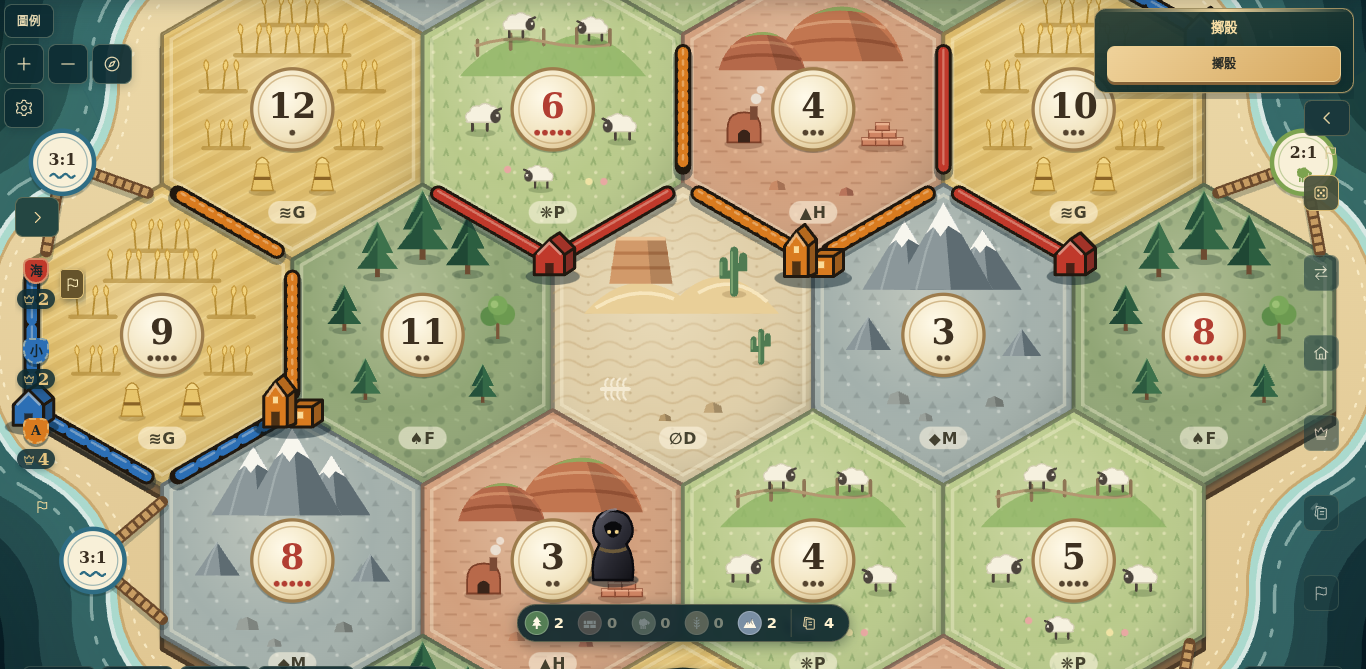
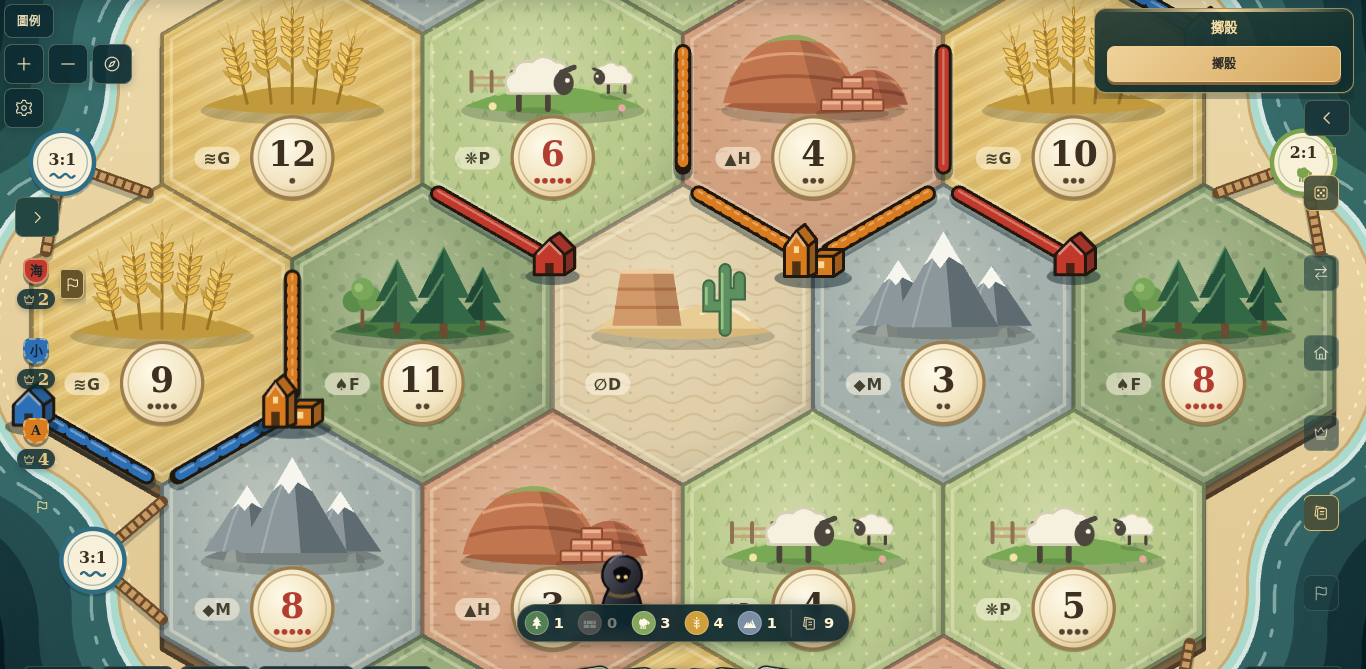
♻ refactor(board): return SVG tiles to a single refined emblem
Replace the scattered terrain scenes with one centred emblem per tile above
the number token, keeping the original icon language while redrawing each
motif with light and an earthen plate.

diff --git a/packages/web/src/components/SvgBoardArt.tsx b/packages/web/src/components/SvgBoardArt.tsx
@@ -177,136 +177,129 @@ function Sheep({ x, y, s = 1, flip = false }: { x: number; y: number; s?: number
   </g>;
 }
 
-function WheatRow({ x, y, length, s = 1 }: { x: number; y: number; length: number; s?: number }) {
-  const ears = Math.max(2, Math.round(length / 9));
-  return <g transform={`translate(${x} ${y}) scale(${s})`}>
-    <path d={`M${-length / 2} 2H${length / 2}`} stroke="#a77f2c" strokeWidth="3" strokeLinecap="round" opacity=".55" />
-    {Array.from({ length: ears }, (_, index) => {
-      const ex = -length / 2 + (index + 0.5) * length / ears;
-      const lean = index % 2 ? 2 : -1.5;
-      return <g key={index} transform={`translate(${ex} 0) rotate(${lean * 3})`}>
-        <path d="M0 1v-13" stroke="#b58d34" strokeWidth="1.2" />
-        <path d="M0-19q3.2 3 0 8-3.2-5 0-8Z" fill="#f2d27a" stroke="#c69a3c" strokeWidth=".8" />
-      </g>;
-    })}
-  </g>;
-}
-
-function Sheaf({ x, y, s = 1 }: { x: number; y: number; s?: number }) {
-  return <g transform={`translate(${x} ${y}) scale(${s})`}>
-    <ellipse cy="1" rx="10" ry="3" fill="#5a4214" opacity=".25" />
-    <path d="M-8 0l4-20h8l4 20Z" fill="#e7c46a" stroke="#b48a33" strokeWidth="1" />
-    <path d="M-5-20q5-9 10 0" fill="#f3d888" stroke="#b48a33" strokeWidth="1" />
-    <path d="M-6-9h12" stroke="#8a6326" strokeWidth="2.4" />
-  </g>;
+/** A soft earthen plate that every emblem stands on. */
+function Ground({ fill, light, w = 118 }: { fill: string; light: string; w?: number }) {
+  const half = w / 2;
+  return <>
+    <ellipse cy="5" rx={half + 2} ry="9" fill="#0d1d16" opacity=".2" />
+    <path d={`M${-half} 2q${half} -26 ${w} 0q${-half} 10 ${-w} 0Z`} fill={fill} />
+    <path d={`M${-half * 0.62} -6q${half * 0.62} -14 ${half * 1.24} 0`} fill="none" stroke={light} strokeWidth="2.4" strokeLinecap="round" opacity=".75" />
+  </>;
 }
 
 function Cactus({ x, y, s = 1 }: { x: number; y: number; s?: number }) {
   return <g transform={`translate(${x} ${y}) scale(${s})`} strokeLinecap="round" fill="none">
-    <ellipse cy="1" rx="8" ry="2.5" fill="#7a5f33" opacity=".25" />
-    <path d="M0 0v-28M0-12h-7v-9M0-17h6v-7" stroke="#4f7b52" strokeWidth="5.5" />
-    <path d="M-1.4 0v-27M-8.4-12v-8" stroke="#86ad78" strokeWidth="1.5" opacity=".8" />
+    <path d="M0 0v-30M0-12h-8v-10M0-18h7v-8" stroke="#3f6a46" strokeWidth="6.5" />
+    <path d="M0 0v-30M0-12h-8v-10M0-18h7v-8" stroke="#5f9160" strokeWidth="4.5" />
+    <path d="M-1.4-1v-27M-9.2-13v-8" stroke="#a6cf8f" strokeWidth="1.3" opacity=".8" />
   </g>;
 }
 
 function Butte({ x, y, w, h }: { x: number; y: number; w: number; h: number }) {
   const half = w / 2;
   return <g transform={`translate(${x} ${y})`}>
-    <path d={`M${-half} 0L${-half * 0.78} ${-h}H${half * 0.78}L${half} 0Z`} fill="#d29a6a" />
-    <path d={`M${-half * 0.93} ${-h * 0.35}H${half * 0.93}M${-half * 0.86} ${-h * 0.68}H${half * 0.86}`} stroke="#b97a4c" strokeWidth="2.2" />
-    <path d={`M${half * 0.2} ${-h}H${half * 0.78}L${half} 0H${half * 0.32}Z`} fill="#000" opacity=".15" />
-    <path d={`M${-half * 0.78} ${-h}H${half * 0.78}`} stroke="#ecc596" strokeWidth="2.4" />
+    <path d={`M${-half} 0L${-half * 0.76} ${-h}H${half * 0.76}L${half} 0Z`} fill="#d29a6a" />
+    <path d={`M${-half * 0.92} ${-h * 0.34}H${half * 0.92}M${-half * 0.84} ${-h * 0.68}H${half * 0.84}`} stroke="#b97a4c" strokeWidth="2.2" />
+    <path d={`M${half * 0.18} ${-h}H${half * 0.76}L${half} 0H${half * 0.3}Z`} fill="#4a2a14" opacity=".18" />
+    <path d={`M${-half * 0.76} ${-h}H${half * 0.76}`} stroke="#f0cd9f" strokeWidth="2.6" strokeLinecap="round" />
   </g>;
 }
 
-function Kiln({ x, y }: { x: number; y: number }) {
-  return <g transform={`translate(${x} ${y})`}>
-    <ellipse cy="1" rx="13" ry="3.5" fill="#4a2414" opacity=".25" />
-    <path d="M-11 0v-9q0-11 11-11t11 11V0Z" fill="#b8694a" stroke="#7c3f28" strokeWidth="1.2" />
-    <path d="M-4 0v-6q4-5 8 0V0Z" fill="#3a2419" />
-    <path d="M4-24h5v9h-5Z" fill="#7a4a35" />
-    <circle cx="8" cy="-29" r="3.5" fill="#eee8dd" opacity=".85" /><circle cx="11" cy="-35" r="2.6" fill="#f5f1e9" opacity=".7" />
-  </g>;
-}
-
-function BrickStack({ x, y }: { x: number; y: number }) {
+function BrickStack({ x, y, s = 1 }: { x: number; y: number; s?: number }) {
   const brick = (bx: number, by: number, key: string) => <g key={key}>
-    <rect x={bx} y={by} width="9" height="5" fill="#cf8463" stroke="#8c4a32" strokeWidth=".9" />
-    <rect x={bx} y={by} width="9" height="1.6" fill="#eab08e" />
+    <rect x={bx} y={by} width="12" height="6.5" rx=".8" fill="#d18665" stroke="#86452e" strokeWidth="1" />
+    <rect x={bx + 1} y={by + 1} width="10" height="1.8" fill="#f0b996" opacity=".9" />
   </g>;
-  return <g transform={`translate(${x} ${y})`}>
-    <ellipse cx="0" cy="1" rx="16" ry="3.5" fill="#4a2414" opacity=".25" />
-    {[0, 1, 2].flatMap((row) => Array.from({ length: 3 - row }, (_, col) => brick(-13.5 + row * 4.5 + col * 9, -5 - row * 5, `${row}-${col}`)))}
+  return <g transform={`translate(${x} ${y}) scale(${s})`}>
+    <ellipse cy="1.5" rx="21" ry="4" fill="#4a2414" opacity=".25" />
+    {[0, 1, 2].flatMap((row) => Array.from({ length: 3 - row }, (_, col) => brick(-18 + row * 6 + col * 12, -6.5 - row * 6.5, `${row}-${col}`)))}
   </g>;
 }
 
-function Bones({ x, y }: { x: number; y: number }) {
-  return <g transform={`translate(${x} ${y})`} stroke="#f4ead2" strokeLinecap="round" fill="none">
-    <path d="M-10 0h18" strokeWidth="2.6" />
-    {[-7, -3, 1, 5].map((rx) => <path key={rx} d={`M${rx} 0q-2-5 1-7M${rx} 0q-2 5 1 7`} strokeWidth="1.4" />)}
+function WheatStalk({ x, h, lean }: { x: number; h: number; lean: number }) {
+  const kernels = [0, 1, 2, 3];
+  return <g transform={`translate(${x} 0) rotate(${lean})`}>
+    <path d={`M0 0V${-h}`} stroke="#9c7426" strokeWidth="2" strokeLinecap="round" />
+    <path d={`M0 ${-h * 0.35}q-9-4-11-12q8 2 11 9`} fill="#c9a447" />
+    {kernels.map((k) => {
+      const ky = -h + 3 + k * 6.5;
+      return <g key={k}>
+        <path d={`M0 ${ky + 3}q-7-1-7.5-7.5q6 1 7.5 6Z`} fill="#f1cf6e" stroke="#b78a2e" strokeWidth=".8" />
+        <path d={`M0 ${ky + 3}q7-1 7.5-7.5q-6 1-7.5 6Z`} fill="#e4bb55" stroke="#b78a2e" strokeWidth=".8" />
+      </g>;
+    })}
+    <path d={`M0 ${-h - 1}q-1.6-4 0-8 1.6 4 0 8Z`} fill="#f6da86" stroke="#b78a2e" strokeWidth=".8" />
+    <path d={`M-2 ${-h - 4}l-5-10M2 ${-h - 4}l5-10M0 ${-h - 8}v-9`} stroke="#d7b257" strokeWidth=".9" />
+  </g>;
+}
+
+function Fence({ from, to, y }: { from: number; to: number; y: number }) {
+  const posts = Math.round((to - from) / 14);
+  return <g>
+    <path d={`M${from} ${y - 9}H${to}M${from} ${y - 4}H${to}`} stroke="#c4a679" strokeWidth="2" />
+    {Array.from({ length: posts + 1 }, (_, index) => <path key={index} d={`M${from + index * (to - from) / posts} ${y}v-13`} stroke="#8e7254" strokeWidth="2.6" strokeLinecap="round" />)}
   </g>;
 }
 
 /**
- * Each terrain's scene sits around the central number token: tall features stay
- * in the back half, small details flank the token, lanes and corners stay clear.
+ * One centred emblem per terrain, like a printed tile icon: a single motif on
+ * an earthen plate, sitting above the number token.
  */
-export function TerrainScene({ terrain, x, y }: { terrain: string; x: number; y: number }) {
+export function TerrainEmblem({ terrain, x, y }: { terrain: string; x: number; y: number }) {
   let art: ReactNode;
   switch (terrain) {
     case 'forest':
       art = <>
-        <Pine x={-30} y={-40} s={.8} tone={1} /><Pine x={30} y={-42} s={.86} tone={2} /><Pine x={0} y={-52} s={1} />
-        <Pine x={-52} y={-4} s={.66} tone={2} /><Broadleaf x={50} y={2} s={.72} />
-        <Pine x={-38} y={42} s={.6} tone={1} /><Pine x={40} y={44} s={.56} />
+        <Ground fill="#4c7a45" light="#78a565" />
+        <Broadleaf x={-40} y={-2} s={.82} /><Pine x={40} y={-1} s={.92} tone={2} />
+        <Pine x={-17} y={1} s={1.08} tone={1} /><Pine x={14} y={3} s={1.32} />
       </>;
       break;
     case 'mountains':
     case 'gold':
       art = <>
-        <Peak x={-26} y={-30} w={56} h={46} /><Peak x={26} y={-30} w={52} h={40} /><Peak x={0} y={-30} w={66} h={58} />
-        <Peak x={-50} y={10} w={30} h={22} snow={false} /><Peak x={52} y={14} w={26} h={18} snow={false} />
-        <Rock x={-30} y={44} s={1.1} /><Rock x={34} y={46} s={.9} fill="#8a918b" /><Rock x={-12} y={56} s={.7} />
-        {terrain === 'gold' && <><Rock x={22} y={36} s={1.2} fill="#d9b44d" /><Rock x={-46} y={30} s={.9} fill="#e7c868" /></>}
+        <Ground fill={terrain === 'gold' ? '#8c7d4e' : '#76817f'} light={terrain === 'gold' ? '#c9b46a' : '#a4aca6'} />
+        <Peak x={-30} y={-2} w={58} h={44} /><Peak x={32} y={-2} w={54} h={40} /><Peak x={0} y={-1} w={74} h={64} />
+        <Rock x={-38} y={3} s={1.1} /><Rock x={42} y={4} s={.9} fill="#8a918b" />
+        {terrain === 'gold' && <><Rock x={14} y={4} s={1.3} fill="#e0b84a" /><Rock x={-12} y={5} s={1} fill="#f0d070" /></>}
       </>;
       break;
     case 'hills':
       art = <>
-        <Mound x={18} y={-32} w={84} h={40} colors={['#c27650', '#a85d3c', '#d79a72']} />
-        <Mound x={-34} y={-26} w={58} h={28} colors={['#b5694a', '#9a5236', '#d08a64']} />
-        <Kiln x={-46} y={22} /><BrickStack x={46} y={24} />
-        <Rock x={-24} y={52} s={.8} fill="#c98a66" /><Rock x={22} y={56} s={.7} fill="#b9745a" />
+        <Ground fill="#a75e3c" light="#d99a70" />
+        <Mound x={-14} y={0} w={92} h={50} colors={['#c27650', '#a35a3a', '#de9f76']} />
+        <Mound x={38} y={1} w={50} h={26} colors={['#b5694a', '#96503a', '#d08a64']} grass={false} />
+        <BrickStack x={26} y={5} s={1.15} />
       </>;
       break;
     case 'fields':
       art = <>
-        <WheatRow x={0} y={-58} length={44} /><WheatRow x={0} y={-38} length={76} /><WheatRow x={-46} y={-14} length={30} />
-        <WheatRow x={46} y={-14} length={30} /><WheatRow x={-44} y={24} length={34} s={.9} /><WheatRow x={44} y={24} length={34} s={.9} />
-        <Sheaf x={-20} y={54} s={.9} /><Sheaf x={20} y={54} s={.9} />
+        <Ground fill="#c29a3e" light="#ecd07a" />
+        <WheatStalk x={-30} h={38} lean={-14} /><WheatStalk x={30} h={38} lean={14} />
+        <WheatStalk x={-14} h={48} lean={-6} /><WheatStalk x={14} h={48} lean={6} /><WheatStalk x={0} h={56} lean={0} />
       </>;
       break;
     case 'pasture':
       art = <>
-        <path d="M-62-22q30-34 62-22 30-18 62 22Z" fill="#8fb565" opacity=".8" />
-        <path d="M-50-36v-10m22 6v-10m22 7v-10m22 9v-10m22 11v-10" stroke="#8e7655" strokeWidth="2.4" strokeLinecap="round" />
-        <path d="M-52-42q24-8 46-3t44 2" stroke="#b39871" strokeWidth="2" fill="none" />
-        <Sheep x={-24} y={-48} s={.82} /><Sheep x={28} y={-46} s={.78} flip />
-        <Sheep x={-48} y={14} s={.9} /><Sheep x={46} y={20} s={.86} flip /><Sheep x={-8} y={52} s={.74} flip />
-        {[-30, 24, 34].map((fx, index) => <circle key={fx} cx={fx} cy={index ? 48 : 40} r={2.4} fill={index % 2 ? '#f0e3a4' : '#e8a8a2'} />)}
+        <Ground fill="#7aa956" light="#b4d283" />
+        <Fence from={-54} to={-14} y={-8} />
+        <Sheep x={42} y={-7} s={1} flip />
+        <Sheep x={-12} y={4} s={1.75} />
+        <circle cx={-40} cy={2} r={2.6} fill="#f3e6a8" /><circle cx={46} cy={3} r={2.4} fill="#eaaaa4" />
       </>;
       break;
     case 'desert':
       art = <>
-        <path d="M-66-14q30-34 64-12 30-30 66 12Z" fill="#e9cf98" />
-        <path d="M-58-18q26-16 52-6m16-4q24-14 46 6" stroke="#f7e6bd" strokeWidth="2.4" fill="none" />
-        <Butte x={-28} y={-34} w={42} h={30} /><Cactus x={34} y={-28} s={1} /><Cactus x={52} y={18} s={.72} />
-        <Bones x={-44} y={36} /><Rock x={20} y={50} s={.9} fill="#c4a87a" /><Rock x={-12} y={56} s={.6} fill="#b89b6c" />
+        <Ground fill="#d8b77a" light="#f3e0b2" />
+        <path d="M-56 0q22-24 50-8 20-18 58 8Z" fill="#e8cd95" />
+        <path d="M-44-4q18-12 34-4m22-2q16-10 32 4" stroke="#f8e8c2" strokeWidth="2.2" fill="none" strokeLinecap="round" />
+        <Butte x={-24} y={-2} w={46} h={36} /><Cactus x={28} y={1} s={1.35} />
       </>;
       break;
     default:
       art = <path d="M-40-10q10-8 20 0t20 0 20 0 20 0M-40 10q10-8 20 0t20 0 20 0 20 0" fill="none" stroke="#bfe6df" strokeWidth="2.5" />;
   }
-  return <g transform={`translate(${x} ${y})`} className="board__scene" aria-hidden="true" pointerEvents="none">{art}</g>;
+  return <g transform={`translate(${x} ${y})`} className="board__terrain-art" aria-hidden="true" pointerEvents="none">{art}</g>;
 }
 
 export function NumberToken({ x, y, number, pips, ids }: { x: number; y: number; number: number; pips: number; ids: BoardArtIds }) {

diff --git a/packages/web/src/components/SvgBoard.tsx b/packages/web/src/components/SvgBoard.tsx
@@ -7,7 +7,7 @@ import type { TableState } from '../state/table.ts';
 import { useT } from '../i18n/context.tsx';
 import { pipsFor, playerColorHex, resourceLetter, seatDash, terrainFill, terrainLetter, terrainSymbol } from '../board/terrain.ts';
 import { confirmedPlacement } from '../board/effects.ts';
-import { BoardArtDefs, BoardBuilding, boardArtIds, HarborMarker, IslandShore, NumberToken, RobberPiece, shade, TerrainScene, TileFinish } from './SvgBoardArt.tsx';
+import { BoardArtDefs, BoardBuilding, boardArtIds, HarborMarker, IslandShore, NumberToken, RobberPiece, shade, TerrainEmblem, TileFinish } from './SvgBoardArt.tsx';
 
 interface SvgBoardProps extends Omit<ComponentProps<'svg'>, 'viewBox' | 'points'> {
   svgRef: Ref<SVGSVGElement>;
@@ -23,9 +23,12 @@ interface SvgBoardProps extends Omit<ComponentProps<'svg'>, 'viewBox' | 'points'
   nameResolver: (id: string) => string;
 }
 
-/** 有數字牌時強盜站在數字牌旁，不遮住點數。 */
+/** 圖示在上、數字牌在下，與實體版面相同。 */
+const TOKEN_DROP = 32;
+
+/** 有數字牌時強盜站在數字牌右側，不遮住點數；地形標記在左側。 */
 function robberSpot(hex: { cx: number; cy: number }, numbered: boolean): Point {
-  return numbered ? { x: hex.cx + 40, y: hex.cy - 2 } : { x: hex.cx, y: hex.cy + 4 };
+  return numbered ? { x: hex.cx + 46, y: hex.cy + TOKEN_DROP - 4 } : { x: hex.cx, y: hex.cy + TOKEN_DROP - 6 };
 }
 
 /** 道路兩端內縮，讓路口的村莊與城市保持完整可見。 */
@@ -63,16 +66,16 @@ export function SvgBoard({ svgRef, geometry, view, active, selection, selfId, in
                   strokeLinejoin="round"
                 />
                 <TileFinish terrain={terrain} points={hex.points} cx={hex.cx} cy={hex.cy} ids={ids} />
-                <TerrainScene terrain={terrain} x={hex.cx} y={hex.cy} />
+                <TerrainEmblem terrain={terrain} x={hex.cx} y={hex.cy - 4} />
                 <g aria-hidden="true" pointerEvents="none">
-                  <rect x={hex.cx - 16} y={hex.cy + 61} width={32} height={15} rx={7.5} fill="#fff8e4" opacity=".55" />
-                  <text className="board__terrain" x={hex.cx} y={hex.cy + 72.5} textAnchor="middle">
+                  <rect x={hex.cx - 65} y={hex.cy + 25} width={30} height={15} rx={7.5} fill="#fff8e4" opacity=".55" />
+                  <text className="board__terrain" x={hex.cx - 50} y={hex.cy + 36.5} textAnchor="middle">
                     {terrainSymbol(terrain)}
                     {terrainLetter(terrain)}
                   </text>
                 </g>
                 {number !== null && number !== undefined && (
-                  <NumberToken x={hex.cx} y={hex.cy} number={number} pips={pipsFor(number)} ids={ids} />
+                  <NumberToken x={hex.cx} y={hex.cy + TOKEN_DROP} number={number} pips={pipsFor(number)} ids={ids} />
                 )}
               </g>
             );

diff --git a/docs/aegis/work/2026-10-31-board-visual-polish.md b/docs/aegis/work/2026-10-31-board-visual-polish.md
@@ -45,12 +45,17 @@ outside 0.3.
 
 - Stepped shallows, a dashed swell, surf and a sand rim from the shared coastline.
 - Each tile keeps its flat fill and adds a texture pattern, a light gradient and an inner bevel.
-- Number tokens move to the tile centre; probability pips are drawn dots.
-- Each terrain has a new scene arranged around the token, clear of corners and lanes.
+- Each tile keeps the original single-icon language: one centred emblem on an
+  earthen plate above the number token, redrawn with two-tone light (pines with
+  a broadleaf, snow-capped peaks, a clay hill with a brick stack, five wheat
+  stalks, sheep by a fence, a butte and cactus). Probability pips are drawn dots
+  and the terrain letter/glyph tag sits left of the token.
+  An earlier iteration that scattered small scenes around a centred token was
+  dropped after review in favour of the single icon.
 - Harbours are two-plank jetties to a badge with ratio and resource glyph (`<title>` keeps `2:1L`).
 - Roads have a dark outline and highlight, keep the seat dash pattern, and are inset at their ends.
 - Settlements and cities are drawn with a lit face and a shaded side.
-- The robber is a hooded figure beside the token instead of over it.
+- The robber is a hooded figure to the right of the token instead of over it.
 
 ## Verification
 
